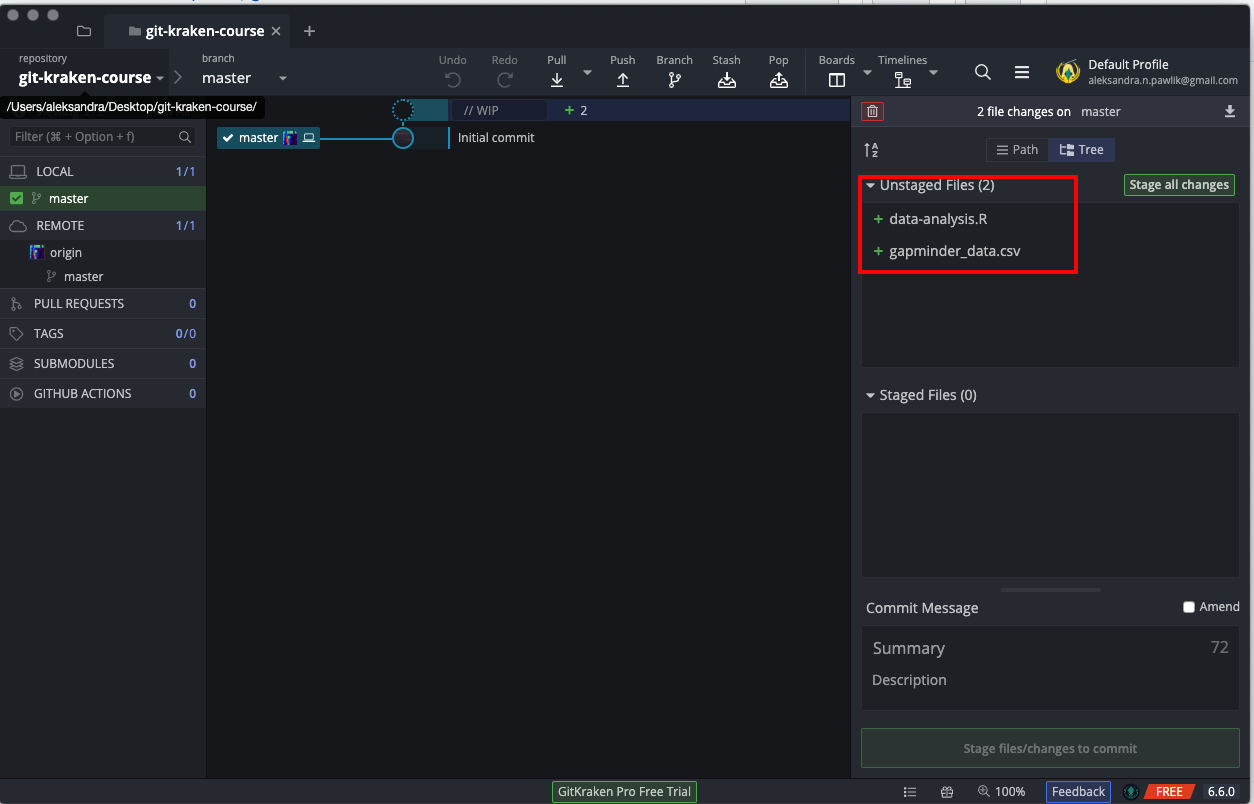
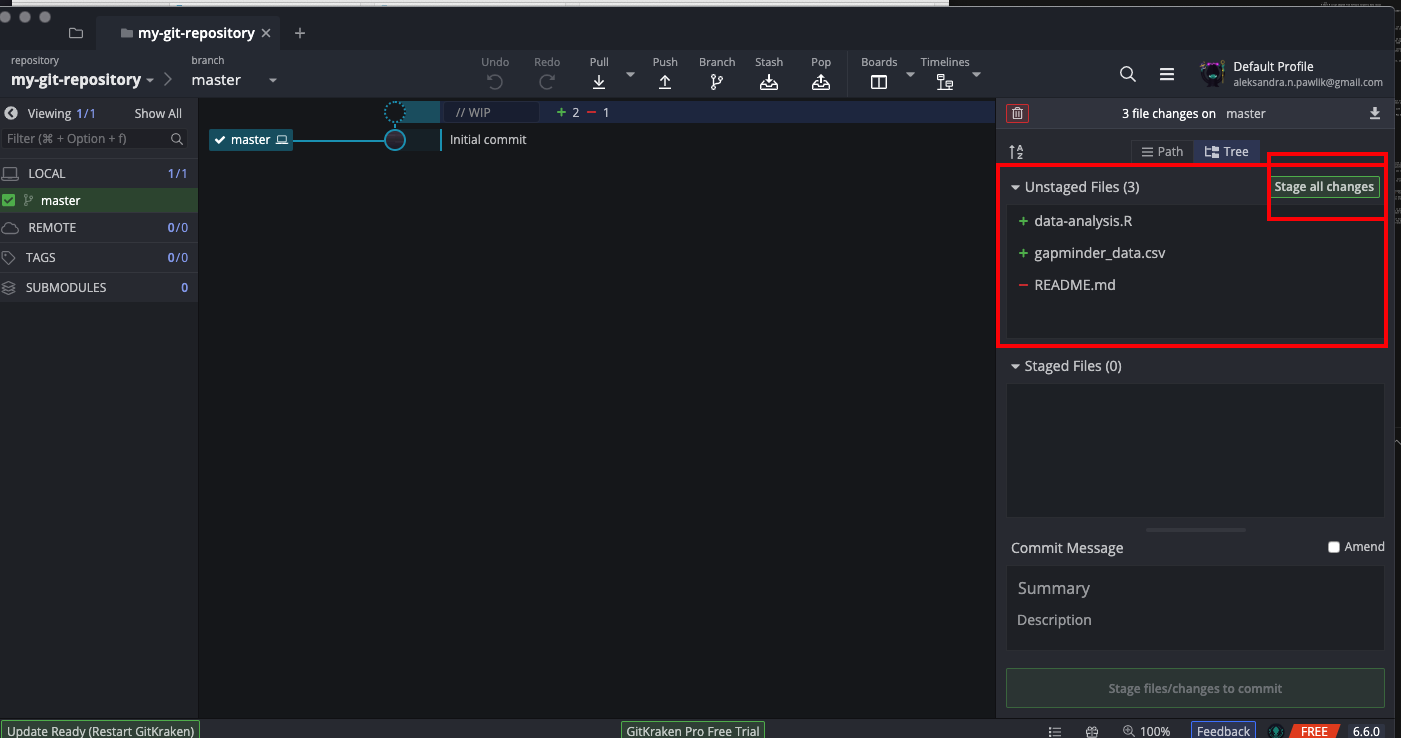
More lesson content

diff --git a/_lessons/01-introduction.md b/_lessons/01-introduction.md
@@ -7,5 +7,24 @@ chapter: introduction
 
 # What is version control
 
-# Why use version control
+Version control is a piece of software which helps you manage efficiently and effortlessly versions of your code and other text files, including some data files (e.g. in `csv` format). Version control provides a well-design mechanism to support collaboration when writing code. 
 
+*The brief introduction to the benefits of version control below comes from the* [excellent lesson on Git](http://swcarpentry.github.io/git-novice/) by [Software Carpentry](https://software-carpentry.org/)
+
+
+* Nothing that is committed to version control is ever lost, unless you work really, really hard at it. Since all old versions of files are saved, it’s always possible to go back in time to see exactly who wrote what on a particular day, or what version of a program was used to generate a particular set of results.
+
+* As we have this record of who made what changes when, we know who to ask if we have questions later on, and, if needed, revert to a previous version, much like the “undo” feature in an editor.
+
+* When several people collaborate in the same project, it’s possible to accidentally overlook or overwrite someone’s changes. The version control system automatically notifies users whenever there’s a conflict between one person’s work and another’s.
+
+Teams are not the only ones to benefit from version control: lone researchers can benefit immensely. Keeping a record of what was changed, when, and why is extremely useful for all researchers if they ever need to come back to the project later on (e.g., a year later, when memory has faded).
+
+Version control is the lab notebook of the digital world: it’s what professionals use to keep track of what they’ve done and to collaborate with other people. Every large software development project relies on it, and most programmers use it for their small jobs as well. And it isn’t just for software: books, papers, small data sets, and anything that changes over time or needs to be shared can and should be stored in a version control system.
+
+
+# Setup
+
+In this tutorial we will use [GitKraken](https://www.gitkraken.com/) to work with Git version control. GitKraken provides a Graphical User Interface to Git (which in its default "shape" is a command line tool).
+
+We use [GitHub](http://github.com/) for learning how to use the remote repositories. 

diff --git a/_lessons/03-git-remote.md b/_lessons/03-git-remote.md
@@ -5,4 +5,27 @@ permalink: /lessons/git-remote
 chapter: git-remote
 ---
 
-We will now
+Having a local repository is useful to track changes and version your work but it also means that you only can work on it from this one machine and makes it hard to collaborate. Good news is that you don't need to email around the files or keep them in a cloud storage. There are online resources that support working with Git.
+
+One of them is [GitHub](https://github.com) and in this section of the tutorial we will learn how to use it for your work. GitHub is widely used by open source and commercial projects (including the mammooth companies such as Microsoft or Apple). GitHub is also popular among researchers who decide to publish their code or even publish their data. Note that Manaaki Whenua Landcare Research has am [organisational account](https://github.com/manaakiwhenua/) where you can store your repositories.
+
+Having a repository on GitHub doesn't mean that its contents will be publicly available. You can set each repository to be either public or private (in which case only logged in GitHub users that you allow access to your repository will be able to see the contents).
+
+## Starting with GitHub
+
+If you don't have an account yet, please set up one with [GitHub](https://github.com). It's free and takes less than a minute. We want to make our repository, that we worked on in the first part of the tutorial, available on GitHub. We need first to create an empty repository on GitHub where we will *push* our local repository.
+
+![](../assets/img/create_repo.png)
+
+Now you can name your repository and decide about other settings. The name doesn't have to be the same as the name of your local repository but it's good practice to keep them consistent.
+
+![](../assets/img/set_new_repo.png)
+
+Once you have done that, GitHub will give you a few hints what to do next. These hints are referring to using Git via command line but since we use GitKraken, it will be slightly different for us. Copy the line as marked on the image below (`https://github.com/apawlik/my-git-repository.git` - it will be different of course with **your** username)
+
+![](../assets/img/how_to_push.png)
+
+Now we need to go back to our local repository on GitKraken and tell GitKraken where is our remote repository:
+
+
+

diff --git a/_lessons/02-git-local.md b/_lessons/02-git-local.md
@@ -9,9 +9,13 @@ Start with creating a Git repository on your local machine. Launch GitKraken and
 
 ![](../assets/img/start_repo.png)
 
-Give your repository a name and select where you want to have it on your machine. A repository is in fact a directory on a hard drive (with some special features that make it a repository) so think about it as creating a directory where you will store your project files. Don't create any `README` file or a `License`. 
+Give your repository a name and select where you want to have it on your machine. A repository is in fact a directory on a hard drive (with some special features that make it a repository) so think about it as creating a directory where you will store your project files. Don't create any `.gitignore` file or a `License`. 
 
 ![](../assets/img/initialize_repo.png)
+
+GitKraken by default creates a `README.md` file inside your repository. We will not need it, so when you right click on it you can remove it.
+
+![](../assets/img/initial_commit_remove_README.png)
 
 Now we can start working with our code. Inside the repository (so the directory you just set up) create a file with the code you want to work on. In this tutorial we use a simple R script. If you run it, it should download a small `csv` file with some data about world population, countries GDP etc.:
 
